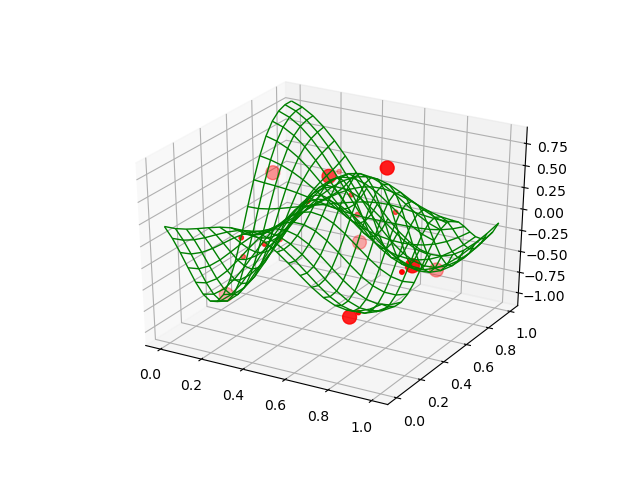
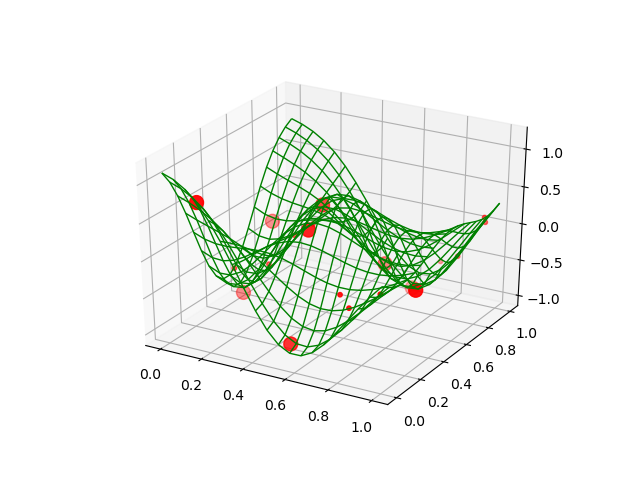
updated: use seedablerng

diff --git a/experimental/l1reg_lp/src/main.rs b/experimental/l1reg_lp/src/main.rs
@@ -4,6 +4,9 @@ use totsu::linalg::F64LAPACK;
 use totsu::logger::PrintLogger;
 use totsu::problem::ProbLP;
 
+use rand::prelude::*;
+use rand_xoshiro::rand_core::SeedableRng;
+use rand_xoshiro::Xoshiro256StarStar;
 use std::io::prelude::*;
 use std::io::BufWriter;
 use std::fs::File;
@@ -48,9 +51,10 @@ fn main() -> std::io::Result<()> {
 
     //----- make sample points for training
 
+    let mut rng = Xoshiro256StarStar::seed_from_u64(0);
     let l = 20; // # of samples
     let x = AMatBuild::new(MatType::General(2, l))
-            .by_fn(|_, _| rand::random()); // random 2-dimensional points
+            .by_fn(|_, _| rng.gen()); // random 2-dimensional points
     let y = AMatBuild::new(MatType::General(l, 1))
             .by_fn(|smp, _| {
                 let x0 = (5. * x[(0, smp)]).cos();
